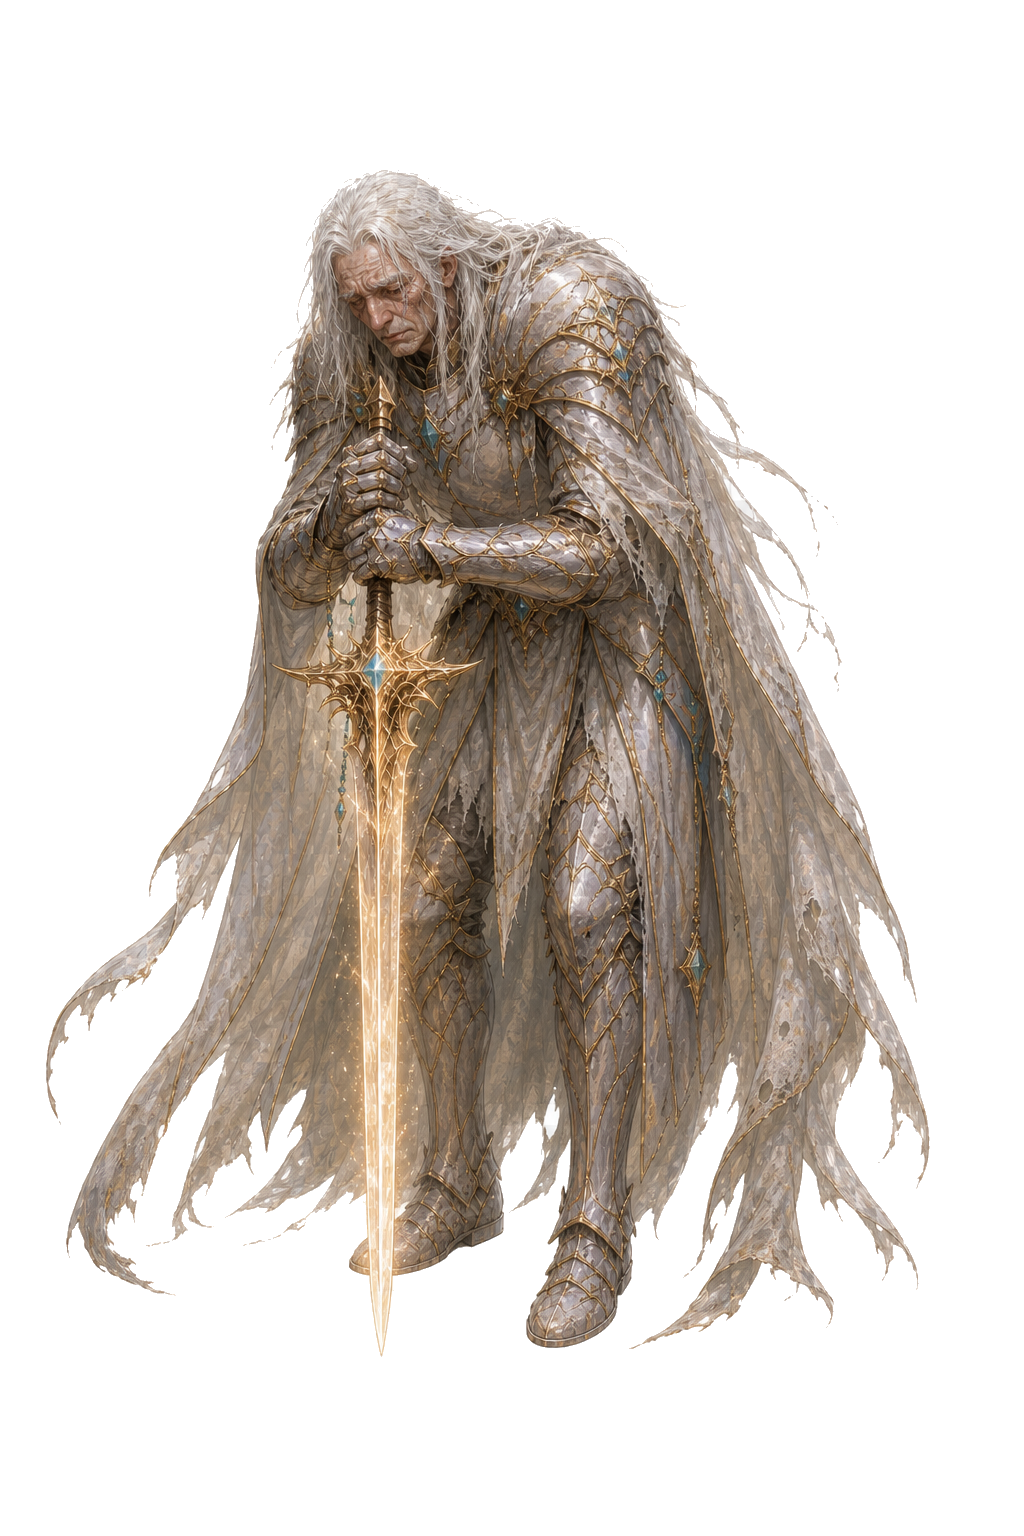
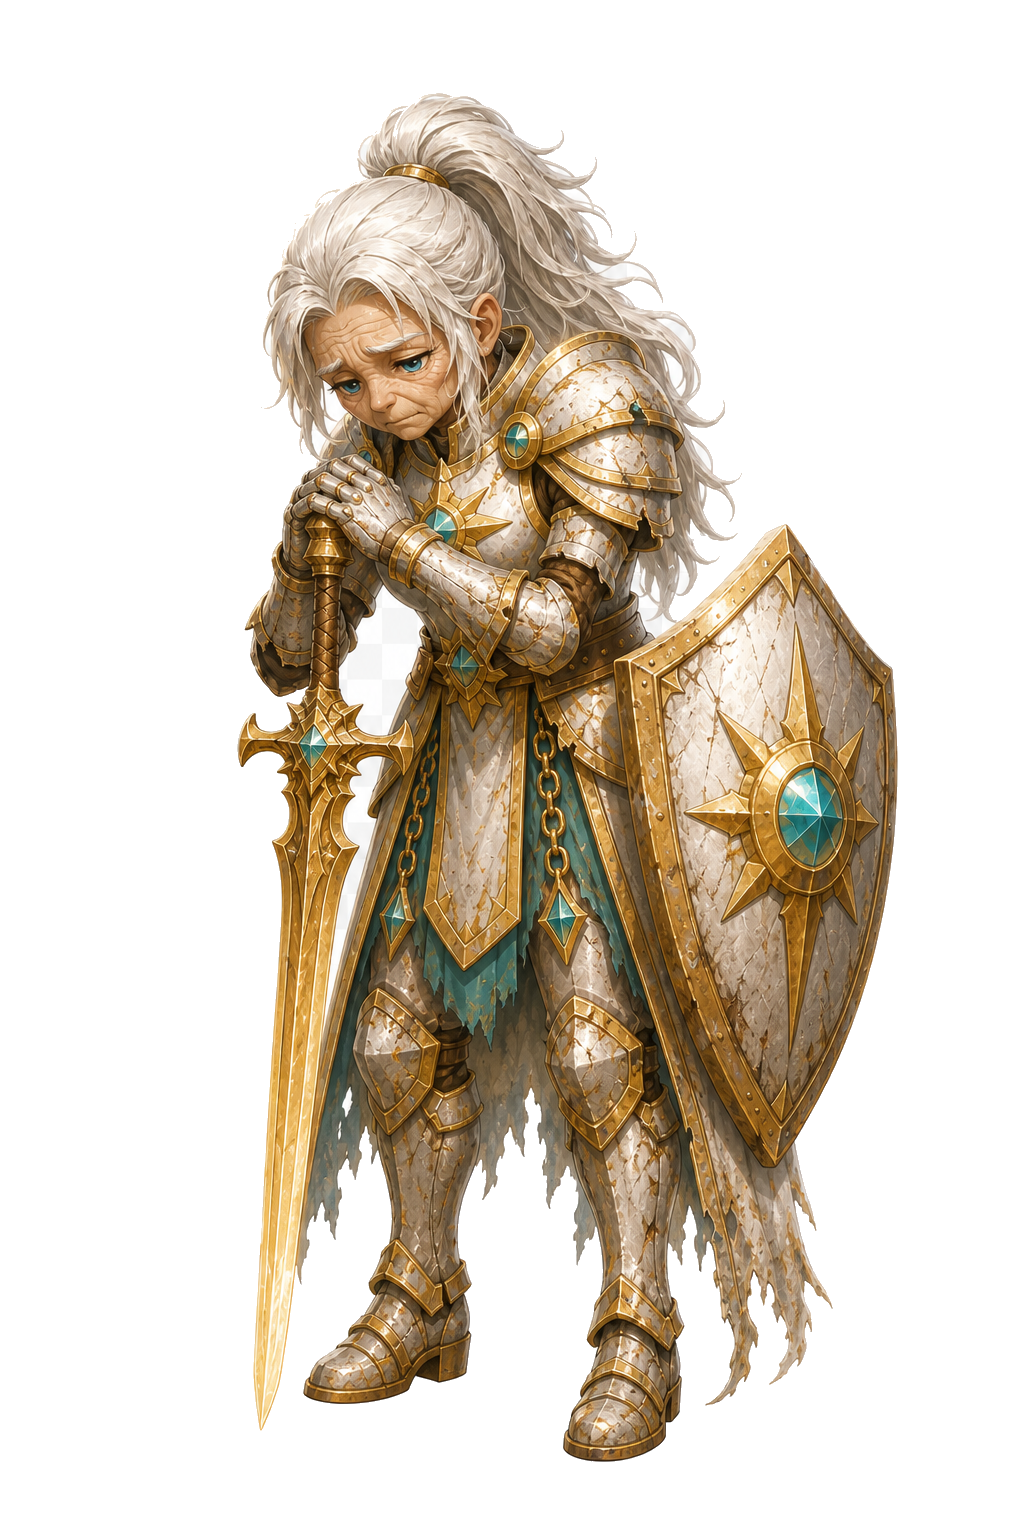
Rediseña T. Shadow, A. Lumen y Kairós

diff --git a/sw.js b/sw.js
@@ -1,5 +1,5 @@
 const CACHE_PREFIX = "aventura-palabras-runtime-";
-const CACHE_NAME = `${CACHE_PREFIX}v211`;
+const CACHE_NAME = `${CACHE_PREFIX}v213`;
 const LEGACY_CACHE_NAMES = new Set([
   `${CACHE_PREFIX}v203`,
   `${CACHE_PREFIX}v202`,
@@ -470,6 +470,19 @@ const ASSET_REVISIONS = {
   "./index.html": "20260831-laberinto-hielo-7",
   "./css/styles.css": "20260901-mundo-hielo-vivo-1",
   "./js/app.js": "20260901-mundo-hielo-vivo-1",
+  "./assets/images/personajes/versus/t-shadow-base.png": "20260902-personajes-chibi-1",
+  "./assets/images/personajes/versus/t-shadow-ataque.png": "20260902-personajes-chibi-1",
+  "./assets/images/personajes/versus/t-shadow-impacto.png": "20260902-personajes-chibi-1",
+  "./assets/images/personajes/versus/t-shadow-victoria.png": "20260902-personajes-chibi-1",
+  "./assets/images/personajes/versus/guardian-alba-base.png": "20260902-personajes-chibi-1",
+  "./assets/images/personajes/versus/guardian-alba-ataque.png": "20260902-personajes-chibi-1",
+  "./assets/images/personajes/versus/guardian-alba-habilidad.png": "20260902-personajes-chibi-1",
+  "./assets/images/personajes/versus/guardian-alba-impacto.png": "20260902-personajes-chibi-1",
+  "./assets/images/personajes/versus/guardian-alba-victoria.png": "20260902-personajes-chibi-1",
+  "./assets/images/personajes/versus/carnivora-devorando-t-shadow.png": "20260902-personajes-chibi-1",
+  "./assets/images/personajes/versus/carnivora-devorando-guardian-alba.png": "20260902-personajes-chibi-1",
+  "./assets/images/personajes/versus/mano-abismo-atrapa-t-shadow.png": "20260902-personajes-chibi-1",
+  "./assets/images/personajes/versus/mano-abismo-atrapa-guardian-alba.png": "20260902-personajes-chibi-1",
   "./js/pwa.js": "20260827-modos-locales-offline-1",
   "./js/supabase-loader.js": "20260827-supabase-diferido-1",
   "./assets/images/ui/presentacion-mision-cumbres-v1.png": "20260827-soporte-cumbres-1",
@@ -527,11 +540,11 @@ const ASSET_REVISIONS = {
   "./assets/images/ambiente/desierto/lagartija-camina-3.png": "20260827-lagartija-caminata-1",
   "./assets/images/ambiente/desierto/lagartija-camina-4.png": "20260827-lagartija-caminata-1",
   "./assets/images/ambiente/desierto/pasto-seco-viento.png": "20260826-fauna-desierto-1",
-  "./assets/images/personajes/versus/kairos-seleccion-v2.png": "20260823-kairos-5",
-  "./assets/images/personajes/versus/kairos-combate-v1.png": "20260823-kairos-5",
-  "./assets/images/personajes/versus/kairos-ataque-v2.png": "20260824-kairos-6",
-  "./assets/images/personajes/versus/kairos-envejecido-kairos-v1.png": "20260830-kairos-edades-1",
-  "./assets/images/personajes/versus/kairos-anciano-kairos-v1.png": "20260830-kairos-edades-1",
+  "./assets/images/personajes/versus/kairos-seleccion-v2.png": "20260902-personajes-chibi-1",
+  "./assets/images/personajes/versus/kairos-combate-v1.png": "20260902-personajes-chibi-1",
+  "./assets/images/personajes/versus/kairos-ataque-v2.png": "20260902-personajes-chibi-1",
+  "./assets/images/personajes/versus/kairos-envejecido-kairos-v1.png": "20260902-personajes-chibi-1",
+  "./assets/images/personajes/versus/kairos-anciano-kairos-v1.png": "20260902-personajes-chibi-1",
   "./assets/images/personajes/versus/explorador-envejecido-kairos-v2.png": "20260823-kairos-5",
   "./assets/images/personajes/versus/explorador-anciano-kairos-v2.png": "20260823-kairos-5",
   "./assets/images/personajes/versus/mago-envejecido-kairos-v1.png": "20260824-kairos-edades-1",
@@ -542,10 +555,10 @@ const ASSET_REVISIONS = {
   "./assets/images/personajes/versus/dragon-anciano-kairos-v1.png": "20260824-kairos-edades-1",
   "./assets/images/personajes/versus/hombre-lobo-envejecido-kairos-v1.png": "20260824-kairos-edades-1",
   "./assets/images/personajes/versus/hombre-lobo-anciano-kairos-v1.png": "20260824-kairos-edades-1",
-  "./assets/images/personajes/versus/t-shadow-envejecido-kairos-v1.png": "20260824-kairos-edades-1",
-  "./assets/images/personajes/versus/t-shadow-anciano-kairos-v1.png": "20260824-kairos-edades-1",
-  "./assets/images/personajes/versus/guardian-alba-envejecido-kairos-v1.png": "20260824-kairos-edades-1",
-  "./assets/images/personajes/versus/guardian-alba-anciano-kairos-v1.png": "20260824-kairos-edades-1",
+  "./assets/images/personajes/versus/t-shadow-envejecido-kairos-v1.png": "20260902-personajes-chibi-1",
+  "./assets/images/personajes/versus/t-shadow-anciano-kairos-v1.png": "20260902-personajes-chibi-1",
+  "./assets/images/personajes/versus/guardian-alba-envejecido-kairos-v1.png": "20260902-personajes-chibi-1",
+  "./assets/images/personajes/versus/guardian-alba-anciano-kairos-v1.png": "20260902-personajes-chibi-1",
   "./assets/images/personajes/versus/dragon-hielo-envejecido-kairos-v1.png": "20260824-kairos-edades-1",
   "./assets/images/personajes/versus/dragon-hielo-anciano-kairos-v1.png": "20260824-kairos-edades-1",
   "./assets/images/personajes/versus/azrak-envejecido-kairos-v1.png": "20260824-kairos-edades-1",
@@ -556,12 +569,12 @@ const ASSET_REVISIONS = {
   "./assets/images/personajes/versus/kairos-final-guardiana-v1.png": "20260824-kairos-finales-ilustrados-1",
   "./assets/images/personajes/versus/kairos-final-dragon-v1.png": "20260824-kairos-finales-ilustrados-1",
   "./assets/images/personajes/versus/kairos-final-hombre-lobo-v1.png": "20260824-kairos-finales-ilustrados-1",
-  "./assets/images/personajes/versus/kairos-final-t-shadow-v1.png": "20260824-kairos-finales-ilustrados-1",
-  "./assets/images/personajes/versus/kairos-final-guardian-alba-v1.png": "20260824-kairos-finales-ilustrados-1",
+  "./assets/images/personajes/versus/kairos-final-t-shadow-v1.png": "20260902-personajes-chibi-1",
+  "./assets/images/personajes/versus/kairos-final-guardian-alba-v1.png": "20260902-personajes-chibi-1",
   "./assets/images/personajes/versus/kairos-final-dragon-hielo-v1.png": "20260824-kairos-finales-ilustrados-1",
   "./assets/images/personajes/versus/kairos-final-azrak-v1.png": "20260824-kairos-finales-ilustrados-1",
   "./assets/images/personajes/versus/kairos-final-kalamo-v1.png": "20260824-kairos-finales-ilustrados-1",
-  "./assets/images/personajes/versus/kairos-final-kairos-v1.png": "20260830-kairos-montaje-1",
+  "./assets/images/personajes/versus/kairos-final-kairos-v1.png": "20260902-personajes-chibi-1",
   "./assets/images/personajes/versus/kairos-final-explorador-concepto-v1.png": "20260823-kairos-5",
   "./assets/images/elements/cristal-sabiduria-dorado-v2.png": "20260821-desierto-correcciones-1",
   "./assets/images/fondos/desierto-2.png": "20260821-desierto-completo-1",
@@ -589,8 +602,8 @@ const ASSET_REVISIONS = {
   "./assets/images/personajes/versus/guardiana-pantalla-rota-kalamo-v1.png": "20260821-kalamo-pantalla-todos-3",
   "./assets/images/personajes/versus/dragon-pantalla-rota-kalamo-v1.png": "20260821-kalamo-pantalla-todos-3",
   "./assets/images/personajes/versus/hombre-lobo-pantalla-rota-kalamo-v1.png": "20260821-kalamo-pantalla-todos-3",
-  "./assets/images/personajes/versus/t-shadow-pantalla-rota-kalamo-v1.png": "20260821-kalamo-pantalla-todos-3",
-  "./assets/images/personajes/versus/guardian-alba-pantalla-rota-kalamo-v1.png": "20260821-kalamo-pantalla-todos-3",
+  "./assets/images/personajes/versus/t-shadow-pantalla-rota-kalamo-v1.png": "20260902-personajes-chibi-1",
+  "./assets/images/personajes/versus/guardian-alba-pantalla-rota-kalamo-v1.png": "20260902-personajes-chibi-1",
   "./assets/images/personajes/versus/dragon-hielo-pantalla-rota-kalamo-v1.png": "20260821-kalamo-pantalla-todos-3",
   "./assets/images/personajes/versus/azrak-pantalla-rota-kalamo-v1.png": "20260821-kalamo-pantalla-todos-3",
   "./assets/images/personajes/versus/kalamo-pantalla-rota-kalamo-v1.png": "20260821-kalamo-pantalla-todos-3",
@@ -607,8 +620,15 @@ const ASSET_REVISIONS = {
   "./js/versus-engine.js": "20260817-versus-recuperacion-1",
   "./js/supabase-client.js": "20260817-amigos-cuentas-1",
   "./js/versus-room-supabase.js": "20260817-auth-cuentas-2",
-  "./assets/images/personajes/versus/guardian-alba-final-carga-sin-rayo.png": "20260817-alume-sin-rayo-1",
+  "./assets/images/personajes/versus/guardian-alba-final-carga-sin-rayo.png": "20260902-personajes-chibi-1",
 };
+
+// Segunda pasada del rediseño: proporciones estilizadas basadas en los conceptos originales.
+for (const path of Object.keys(ASSET_REVISIONS)) {
+  if (ASSET_REVISIONS[path] === "20260902-personajes-chibi-1") {
+    ASSET_REVISIONS[path] = "20260902-personajes-estilizados-2";
+  }
+}
 
 const REVISIONES_ACTUALES = Object.fromEntries(
   CORE_ASSETS.map((path) => [path, ASSET_REVISIONS[path] || LEGACY_REVISION]),
